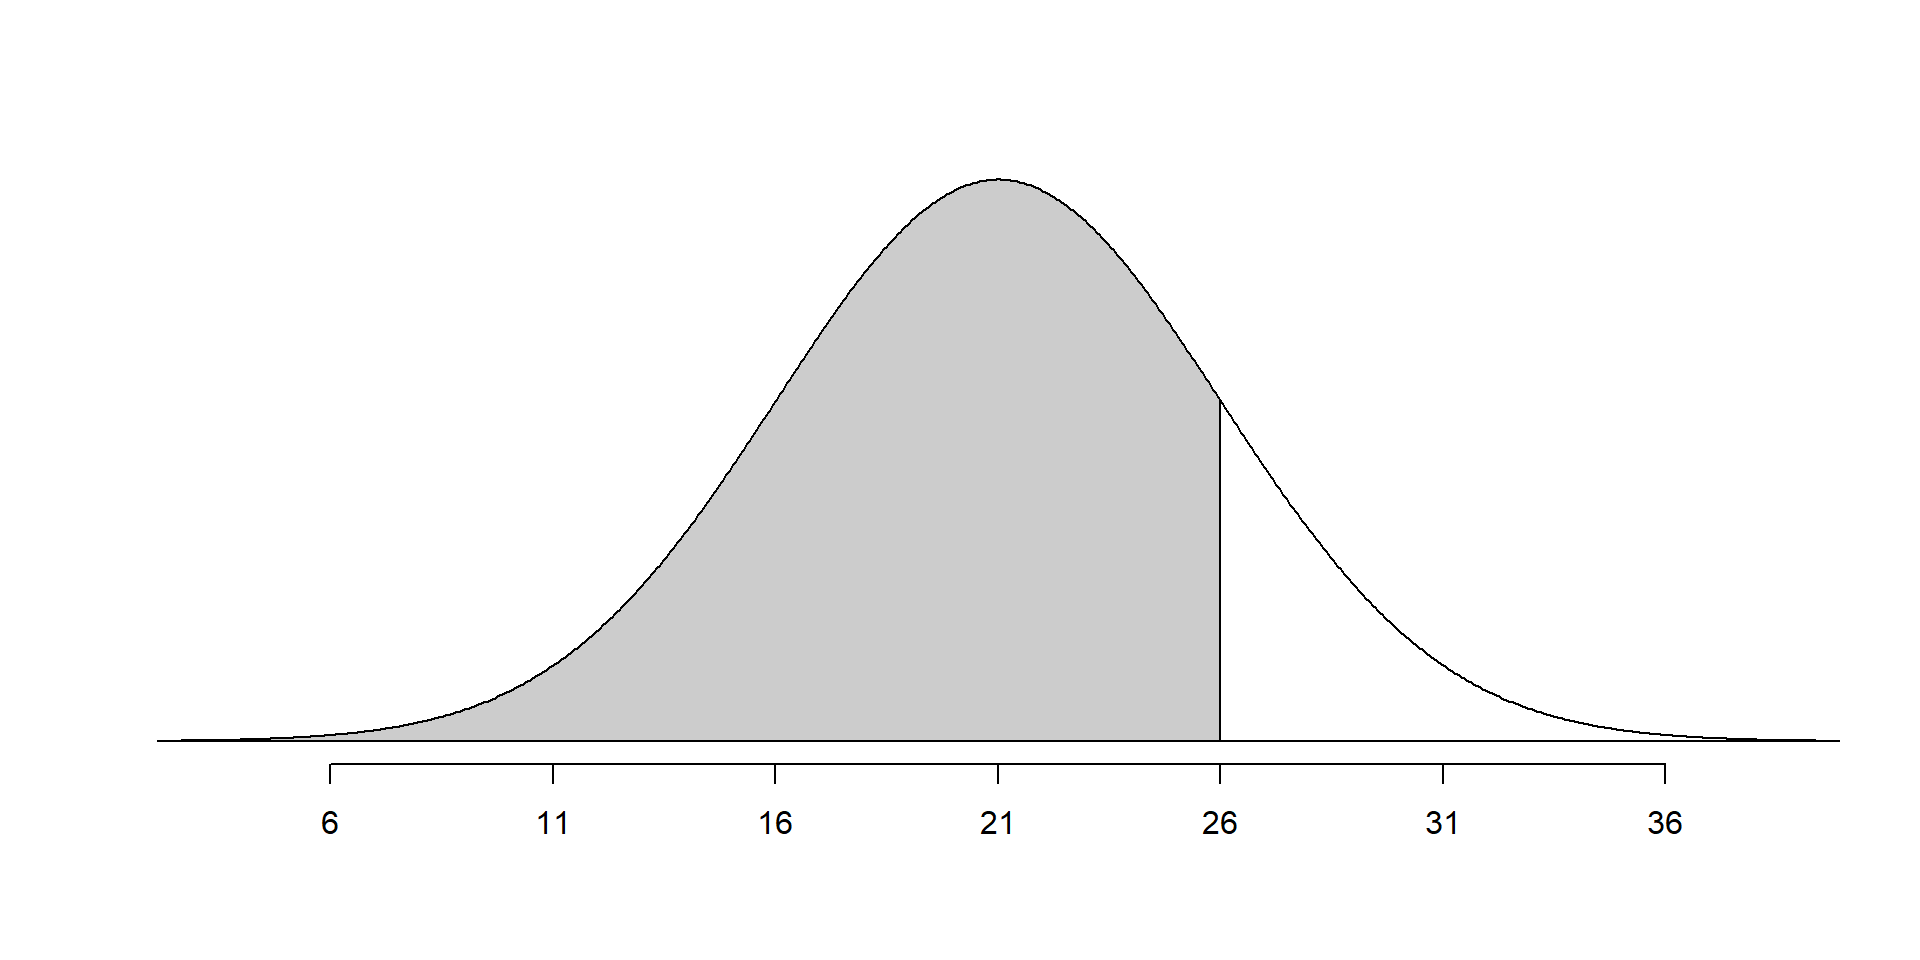
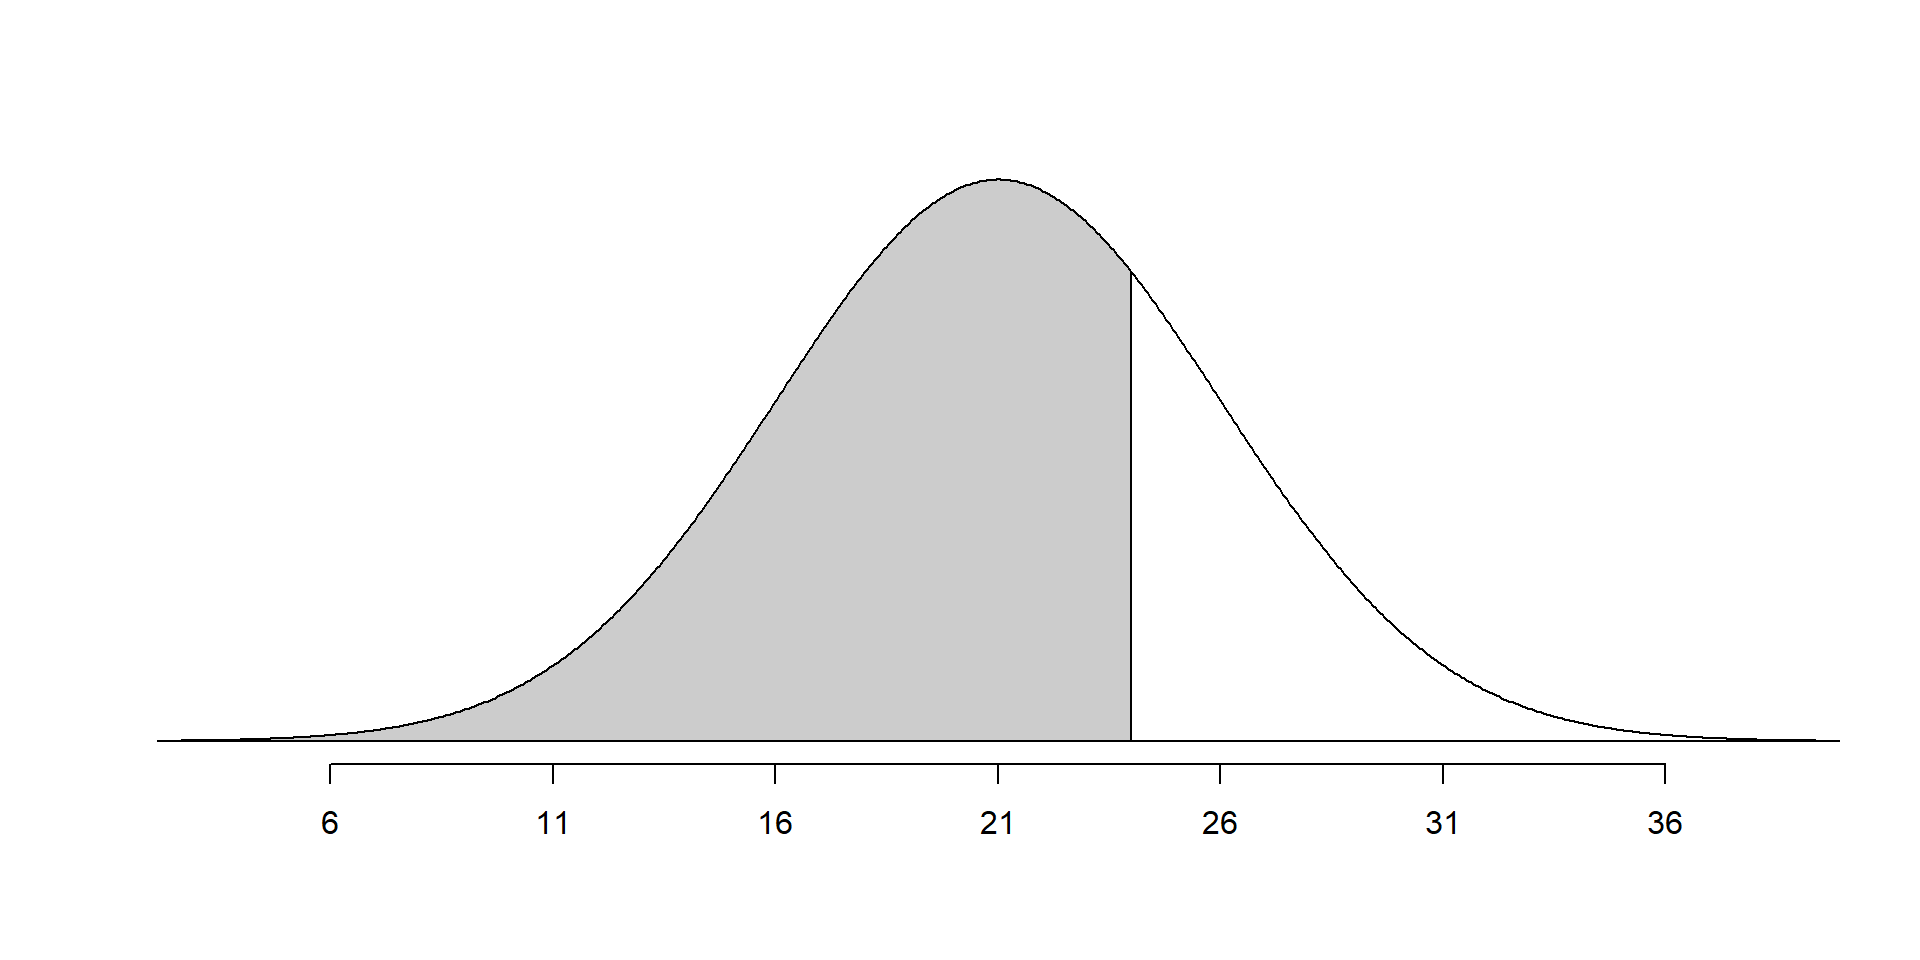
typo

Changed region(s): [[0.5625, 0.2812, 0.6562, 0.7812]]

diff --git a/_site/slides/lec06b-statistical_inference_with_models.html b/_site/slides/lec06b-statistical_inference_with_models.html
@@ -570,7 +570,7 @@ Robin Donatello
 <div>
 <ul>
 <li class="fragment"><span class="math inline">\(X_{ACT} \sim \mathcal{N}(21, 25)\)</span></li>
-<li class="fragment"><span class="math inline">\(x_{Sian} = 21\)</span></li>
+<li class="fragment"><span class="math inline">\(x_{Sian} = 24\)</span></li>
 <li class="fragment"><span class="math inline">\(Z_{Sian} = \frac{24- 21}{5} = 0.6\)</span></li>
 </ul>
 </div>
@@ -585,7 +585,7 @@ Robin Donatello
 <div class="cell">
 <details>
 <summary>Show the code</summary>
-<div class="sourceCode cell-code" id="cb1"><pre class="sourceCode numberSource r number-lines code-with-copy"><code class="sourceCode r"><span id="cb1-1"><a href="#cb1-1"></a>openintro<span class="sc">::</span><span class="fu">normTail</span>(<span class="at">m =</span> <span class="dv">21</span>, <span class="at">s =</span> <span class="dv">5</span>, <span class="at">L =</span> <span class="dv">26</span>)</span></code><button title="Copy to Clipboard" class="code-copy-button"><i class="bi"></i></button></pre></div>
+<div class="sourceCode cell-code" id="cb1"><pre class="sourceCode numberSource r number-lines code-with-copy"><code class="sourceCode r"><span id="cb1-1"><a href="#cb1-1"></a>openintro<span class="sc">::</span><span class="fu">normTail</span>(<span class="at">m =</span> <span class="dv">21</span>, <span class="at">s =</span> <span class="dv">5</span>, <span class="at">L =</span> <span class="dv">24</span>)</span></code><button title="Copy to Clipboard" class="code-copy-button"><i class="bi"></i></button></pre></div>
 </details>
 <div class="cell-output-display">
 <p><img data-src="lec06b-statistical_inference_with_models_files/figure-revealjs/unnamed-chunk-2-1.png" width="960"></p>
@@ -624,7 +624,7 @@ Robin Donatello
 <pre><code>[1] 27.40776</code></pre>
 </div>
 </div>
-<p>You would need to score a 27.5 to be in the top 90th percentile of ACT test takers.</p>
+<p>You would need to score a 27.5 to be in the top 10th percentile of ACT test takers.</p>
 </section></section>
 <section>
 <section id="quantifying-variability-of-a-statistic" class="title-slide slide level1 center">

diff --git a/_site/slides.html b/_site/slides.html
@@ -362,7 +362,7 @@ Topic
 <a href="./slides/lec06a-statistical_inference_with_randomization.html" class="title listing-title">Statistical Inference with Randomization</a>
 </td>
 </tr>
-<tr data-index="10" data-listing-date-sort="1728284400000" data-listing-file-modified-sort="1728275232515" data-listing-date-modified-sort="NaN" data-listing-reading-time-sort="12" data-listing-title-sort="Statistical Inference using Models" data-listing-filename-sort="lec06b-statistical_inference_with_models.qmd">
+<tr data-index="10" data-listing-date-sort="1728284400000" data-listing-file-modified-sort="1728276838112" data-listing-date-modified-sort="NaN" data-listing-reading-time-sort="12" data-listing-title-sort="Statistical Inference using Models" data-listing-filename-sort="lec06b-statistical_inference_with_models.qmd">
 <td>
 <span class="listing-date">Oct 7, 2024</span>
 </td>
